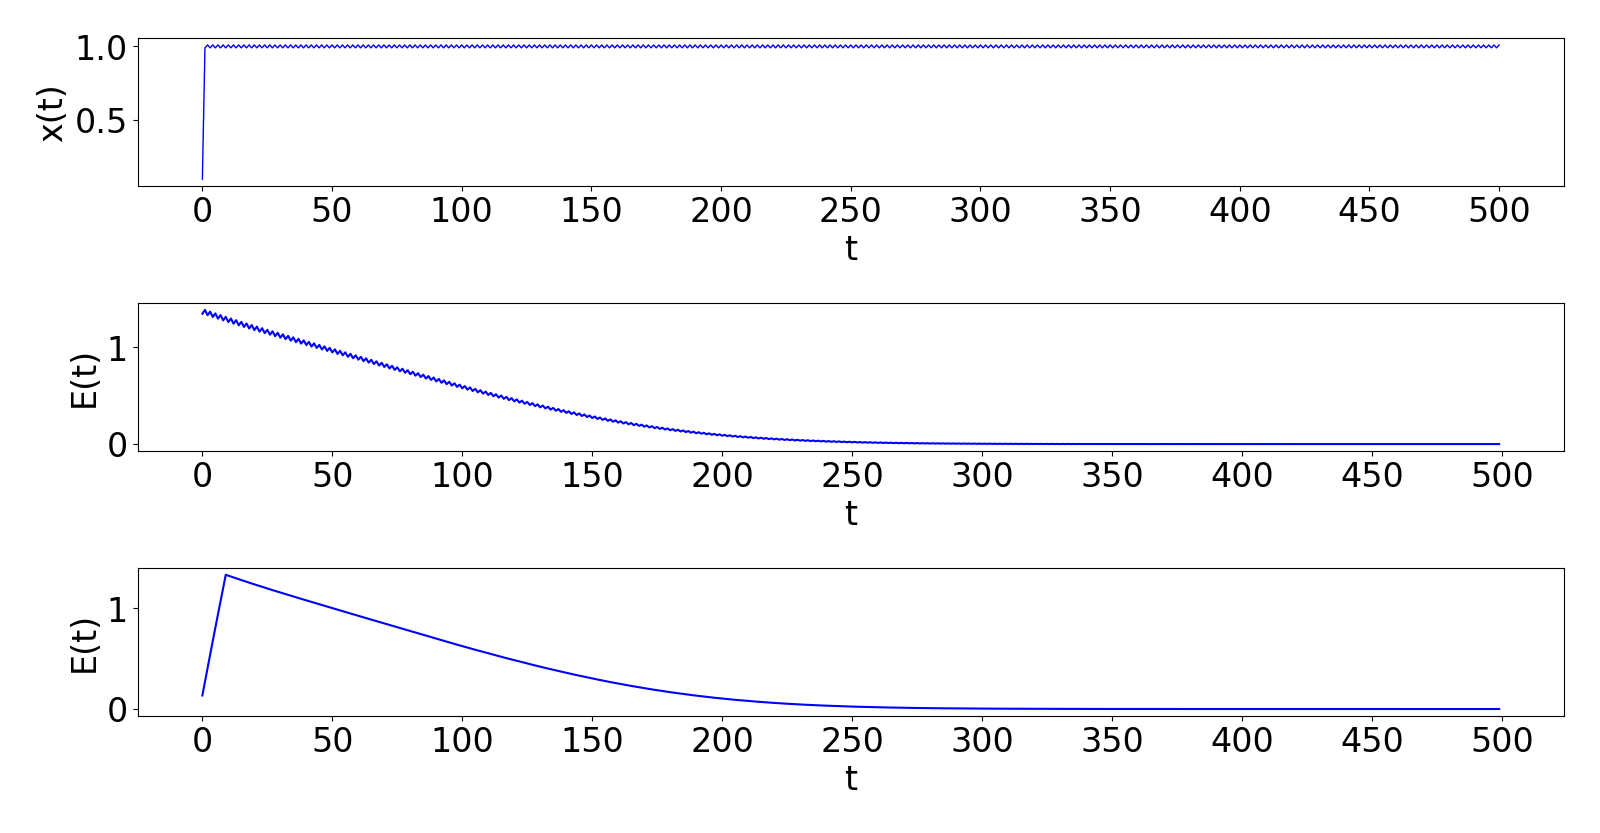
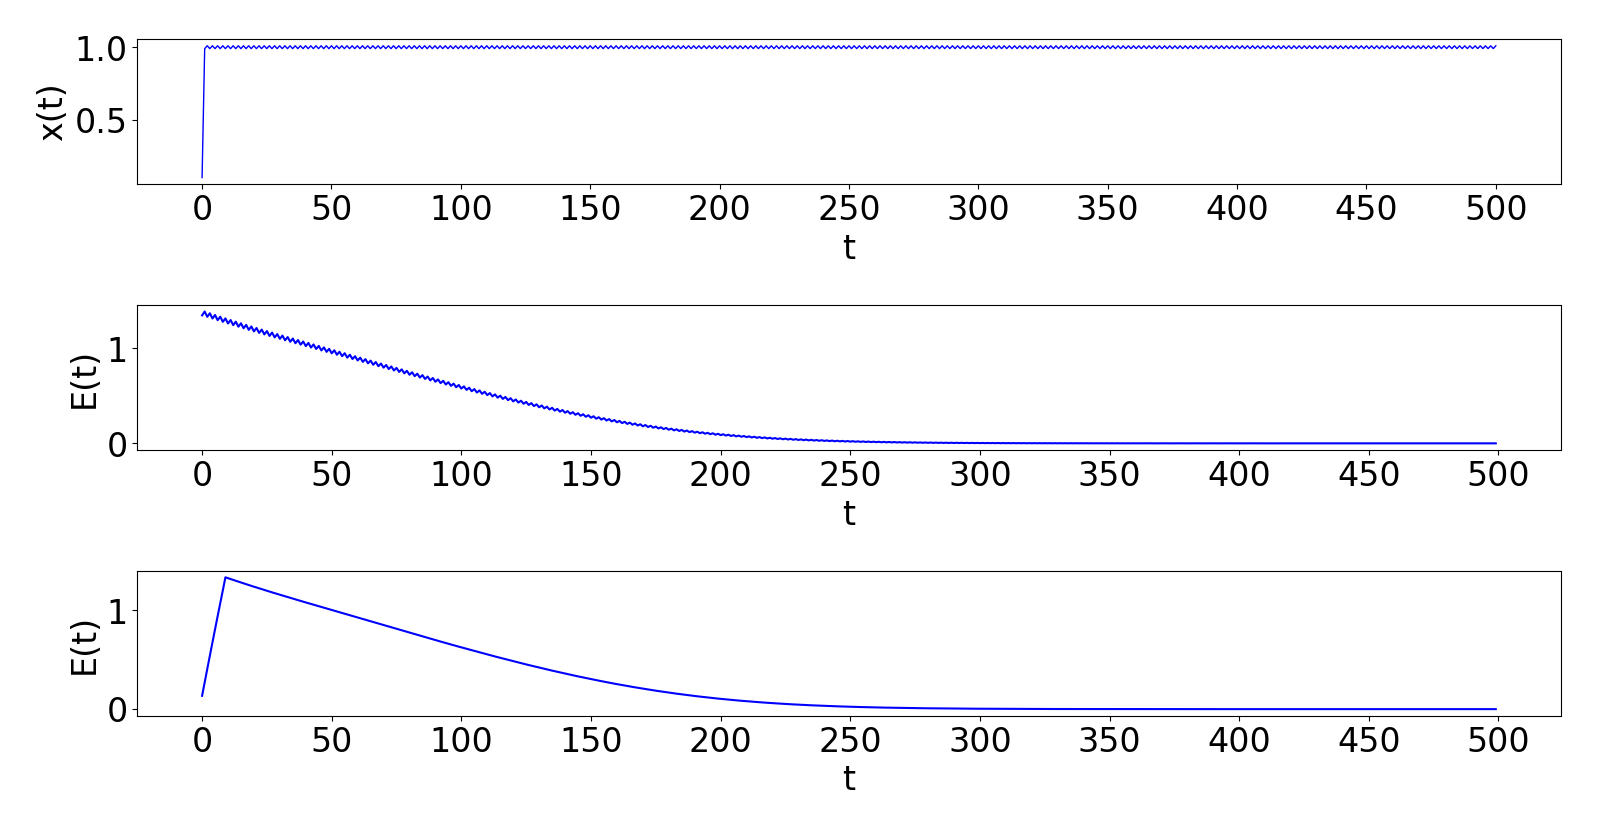
take datas Henon

diff --git a/changing_point_detection.py b/changing_point_detection.py
@@ -15,6 +15,7 @@ import ipdb
 import math
 from matplotlib import mathtext
 import pylab as plt
+import os
 mathtext.FontConstantsBase = mathtext.ComputerModernFontConstants
 
 
@@ -29,14 +30,14 @@ class RNN(nn.Module):
         if bidirection == True:
             self.l1 = nn.RNN(1, hidden_dim,batch_first=True,bidirectional=True)
 
-            self.l2 = nn.Linear(hidden_dim*2,hidden_dim*2)
-            self.a2 = nn.Tanh()
+            # self.l2 = nn.Linear(hidden_dim*2,hidden_dim*2)
+            # self.a2 = nn.Tanh()
 
-            self.l3 = nn.Linear(hidden_dim*2,hidden_dim*2)
-            self.a3 = nn.Tanh()
+            # self.l3 = nn.Linear(hidden_dim*2,hidden_dim*2)
+            # self.a3 = nn.Tanh()
 
-            self.l4 = nn.Linear(hidden_dim*2,hidden_dim*2)
-            self.a4 = nn.Tanh()
+            # self.l4 = nn.Linear(hidden_dim*2,hidden_dim*2)
+            # self.a4 = nn.Tanh()
 
             self.l5 = nn.Linear(hidden_dim*2, 1)
         elif bidirection == False:
@@ -49,7 +50,8 @@ class RNN(nn.Module):
         nn.init.xavier_normal_(self.l1.weight_ih_l0)
         nn.init.orthogonal_(self.l1.weight_hh_l0)
 
-        self.layers = [self.l1, self.l2, self.a2, self.l3, self.a3, self.l4, self.a4, self.l5]
+        # self.layers = [self.l1, self.l2, self.a2, self.l3, self.a3, self.l4, self.a4, self.l5]
+        self.layers = [self.l1,self.l5]
 
 
     # 順伝播
@@ -148,10 +150,10 @@ class HenonFunc():
         for t in range(500):
             if t < 250:
                 self.x = np.append(self.x,self.henon_func_x(t,self.before_a))
-                self.y = np.append(self.y,self.henon_func_x(t,self.before_a))
+                self.y = np.append(self.y,self.henon_func_y(t,self.before_a))
             else:
-                self.x = np.append(self.x,self.henon_func_x(t,self.before_a))
-                self.y = np.append(self.y,self.henon_func_x(t,self.before_a))
+                self.x = np.append(self.x,self.henon_func_x(t,self.after_a))
+                self.y = np.append(self.y,self.henon_func_y(t,self.after_a))
         return self.x
 
 
@@ -210,11 +212,11 @@ if __name__ == '__main__':
         return loss, preds
 
 
-    epochs = 1
+    epochs = 1000
     batch_size = 1
 
     # 学習実行 & 学習損失GET.
-    def get_loss(factors,answers,model,criterion,optimizer,picture_name,before_a,after_a):
+    def get_loss(factors,answers,model,criterion,optimizer,before_a,after_a):
         n_batches = factors.shape[0] // batch_size
         hist = {'loss': []}
         for epoch in range(epochs):
@@ -247,27 +249,27 @@ if __name__ == '__main__':
         plt.xticks([0,50,100,150,200,250,300,350,400,450,500])
         # plt.xticks([220,230,240,250,260,270,280])
         # plt.yticks([0,0.2,0.4,0.6,0.8,1.0])
-        plt.yticks([0,0.5,1.0])
+        # plt.yticks([0,0.5,1.0])
         plt.ylabel("x(t)")
         plt.plot(range(len(x)), x, linewidth=1.0,color="blue",label="{0}~{1}".format(before_a,after_a))
         # plt.legend(loc="lower left")
 
-    def show_graph_compare_raw_preds(answers,preds,picture_name):
-        # plt.subplot(3,1,3)
+    def show_graph_compare_raw_preds(answers,preds):
+        plt.subplot(2,1,1)
         # plt.title("compare_raw_pred")
         plt.xlabel("t")
         plt.ylabel("x(t)")
         plt.xticks([0,50,100,150,200,250,300,350,400,450,500])
 
         # plt.yticks([0,0.2,0.4,0.6,0.8,1.0])
-        plt.yticks([0,0.5,1.0])
+        # plt.yticks([0,0.5,1.0])
         plt.plot(range(len(answers)), answers, linewidth=1,color="blue",label="row_data")
         plt.plot(range(len(preds)),preds,linewidth=0.6,color="red",label="pred")
         # plt.legend(loc="lower left")
 
-    def show_graph_loss_per_batch(loss_per_batch,i,before_a,after_a,epochs):
+    def show_graph_loss_per_batch(loss_per_batch,before_a,after_a,epochs):
         # plt.subplot(3,1,2)
-        plt.subplot(3,1,2)
+        plt.subplot(2,1,2)
         # title = "loss_flow"
         # plt.title(title)
         plt.plot(range(len(loss_per_batch)),loss_per_batch,color="blue",label="{0}~{1} (epochs={2})".format(before_a,after_a,epochs))
@@ -281,7 +283,7 @@ if __name__ == '__main__':
         start = end // interval
 
 
-    def show_graph_move_mean_loss_per_batch(loss_per_batch,mean_range,i,before_a,after_a,epochs):
+    def show_graph_move_mean_loss_per_batch(loss_per_batch,mean_range,before_a,after_a,epochs):
         plt.subplot(3,1,3)
         move_mean_value = take_move_mean(loss_per_batch,mean_range,"full")
         plt.plot(range(len(move_mean_value)),move_mean_value,color="blue",label="{0}~{1} (epochs={2})".format(before_a,after_a,epochs))
@@ -291,43 +293,50 @@ if __name__ == '__main__':
         # plt.yticks([0.000,0.0005,0.001])
 
 
-    def execute_all(target,picture_name,i,model,before_a,after_a):
-          # 隠れ層2ニューロンのモデル生成. (RNN(ニューロン数). 2: 凸凹幅大きい。 ←→ ニューロン数200: 凸凹幅小さい。)
+    def execute_all(target,neuron_num,model,before_a,after_a,learning_rate=0.001):
+        # 隠れ層2ニューロンのモデル生成. (RNN(ニューロン数). 2: 凸凹幅大きい。 ←→ ニューロン数200: 凸凹幅小さい。)
 
         criterion = nn.MSELoss(reduction='mean')    # 損失関数: 平均二乗誤差
-        optimizer = optimizers.Adam(model.parameters(), lr=0.001, betas=(0.9, 0.999), amsgrad=True)     # 最適化手法
+        optimizer = optimizers.Adam(model.parameters(), lr=learning_rate, betas=(0.9, 0.999), amsgrad=True)     # 最適化手法
 
 
         x,factors,answers = make_dataset(target,before_a,after_a)
-        x,factors,answers = make_dataset(target,before_a,after_a)
 
-        loss_per_batch,preds_per_batch = get_loss(factors,answers,model,criterion,optimizer,picture_name,before_a,after_a)
+        loss_per_batch,preds_per_batch = get_loss(factors,answers,model,criterion,optimizer,before_a,after_a)
 
         # plt.rcParams["font.size"] = 37
         plt.rcParams["font.size"] = 24
         # fig = plt.figure(figsize=(20.0,12.0/0.96))
 
-        show_raw_graph(x,before_a,after_a)
-        show_graph_loss_per_batch(loss_per_batch,i,before_a,after_a,epochs)
-        # show_graph_compare_raw_preds(answers,preds_per_batch,picture_name)
+        # show_raw_graph(x,before_a,after_a)
+        show_graph_loss_per_batch(loss_per_batch,before_a,after_a,epochs)
+        show_graph_compare_raw_preds(answers,preds_per_batch)
         mean_range = 10
-        show_graph_move_mean_loss_per_batch(loss_per_batch,mean_range,i,before_a,after_a,epochs)
+        # show_graph_move_mean_loss_per_batch(loss_per_batch,mean_range,before_a,after_a,epochs)
 
         plt.tight_layout()
 
-        fig.savefig("test_dir/{}to{}_{}.png".format(before_a,after_a,epochs))
+        dir_name = "henon_map/RNN/learning_rate{}/neuron{}".format(learning_rate,neuron_num)
+        # dir_name = "logistic_map/RNN/learning_rate{}/neuron{}".format(learning_rate,neuron_num)
+        os.makedirs(dir_name,exist_ok=True)
+        fig.savefig("{}/prediction_accuracy{}to{}_{}epochs.png".format(dir_name,before_a,after_a,epochs))
+
         # plt.show()
 
     # params = [3.95,3.99,3.9,3.85,3.8,3.75,3.7]
-    # params = [3.965]
-    params = [1]
+    # params = [3.7]
+    params = [1.00,1.05,1.10,1.15,1.20,1.25,1.30,1.35,1.40]
+    # params = [1.00]
     for param in params:
         # plt.rcParams["font.size"] = 5
-        fig = plt.figure(figsize=(16.0,8.0/0.96))
-        model2 = RNN(2,bidirection=True).to(device)
-
+        # neuron_nums = [2,4,8,16]
+        neuron_nums = [1]
+        for neuron_num in neuron_nums:
+            model = RNN(neuron_num,bidirection=True).to(device)
         # execute_all("logistic",0,2,model2,param,4.0)
-        execute_all("henon",0,2,model2,param,1.4)
+            fig = plt.figure(figsize=(16.0,8.0/0.96))
+            execute_all("henon",neuron_num,model,param,1.4,learning_rate=0.001)
+            # execute_all("logistic",neuron_num,model,param,4.0,learning_rate=0.001)
 
     # for i in range(1000):
     #     plt.rcParams["font.size"] = 10
